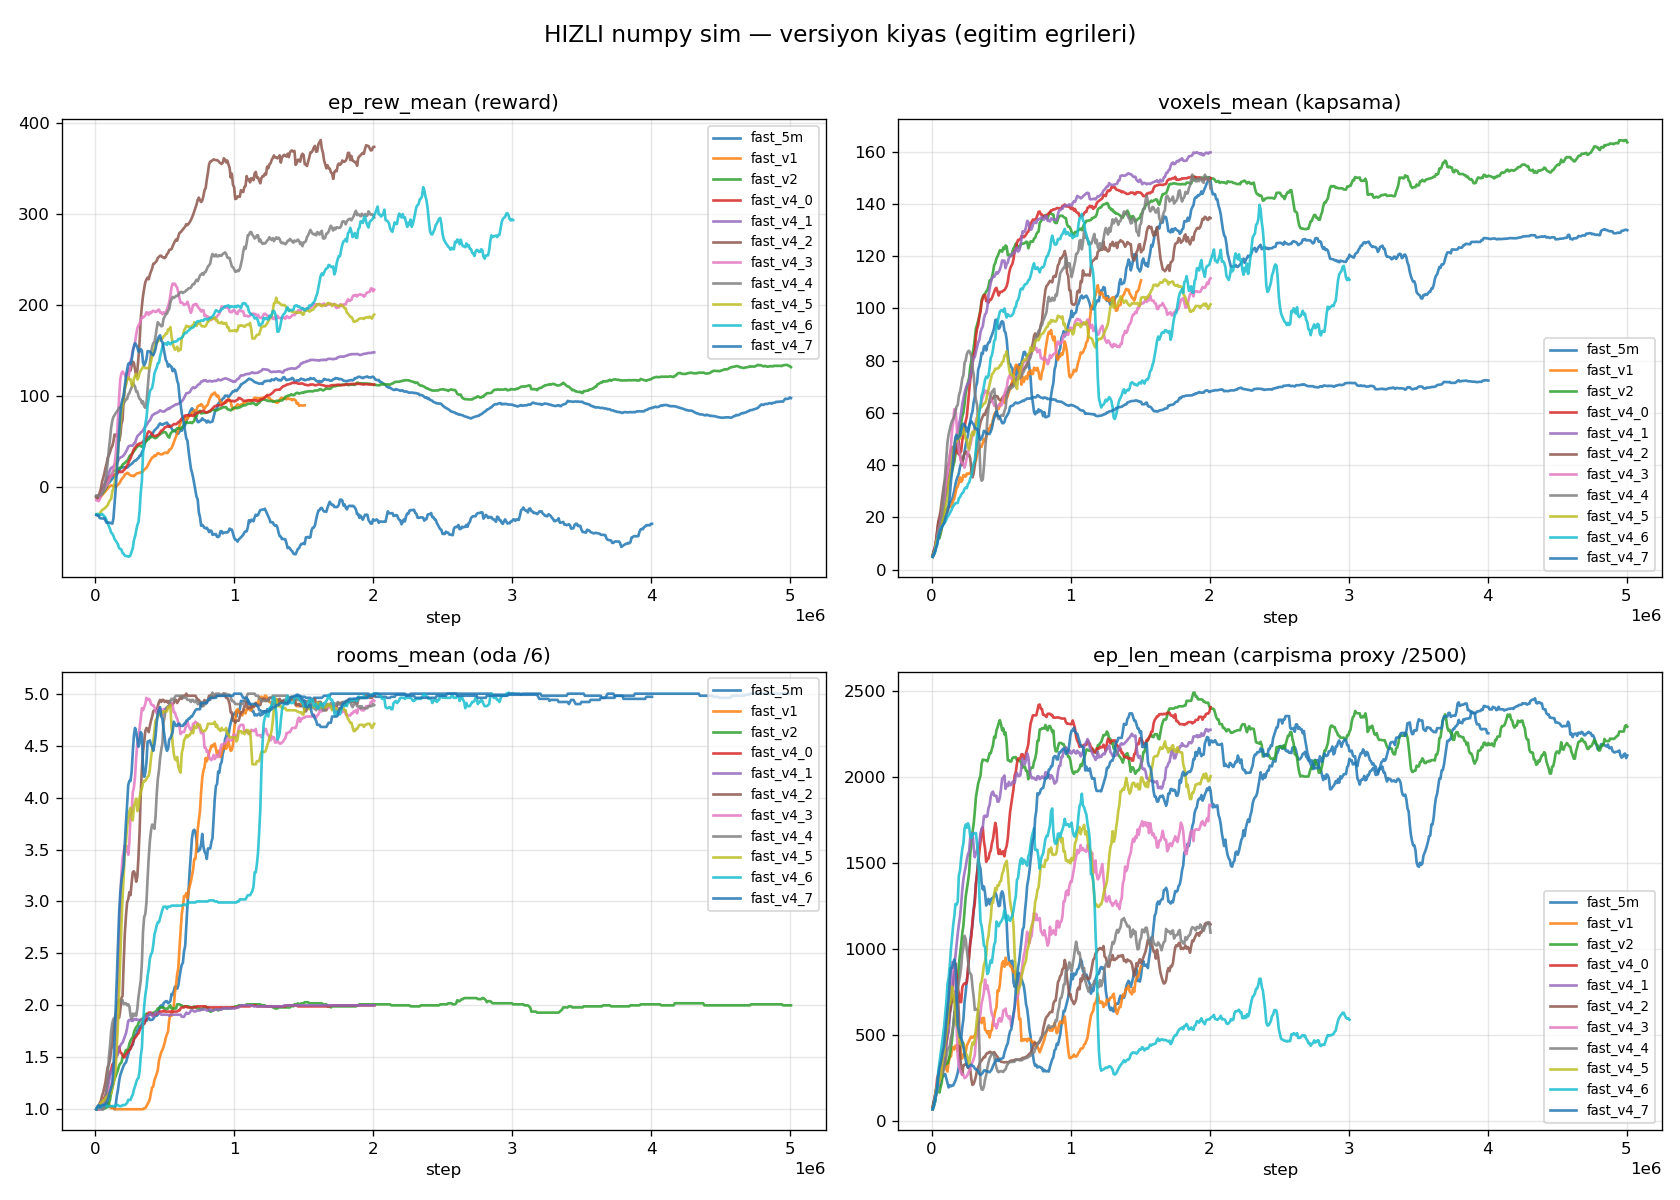
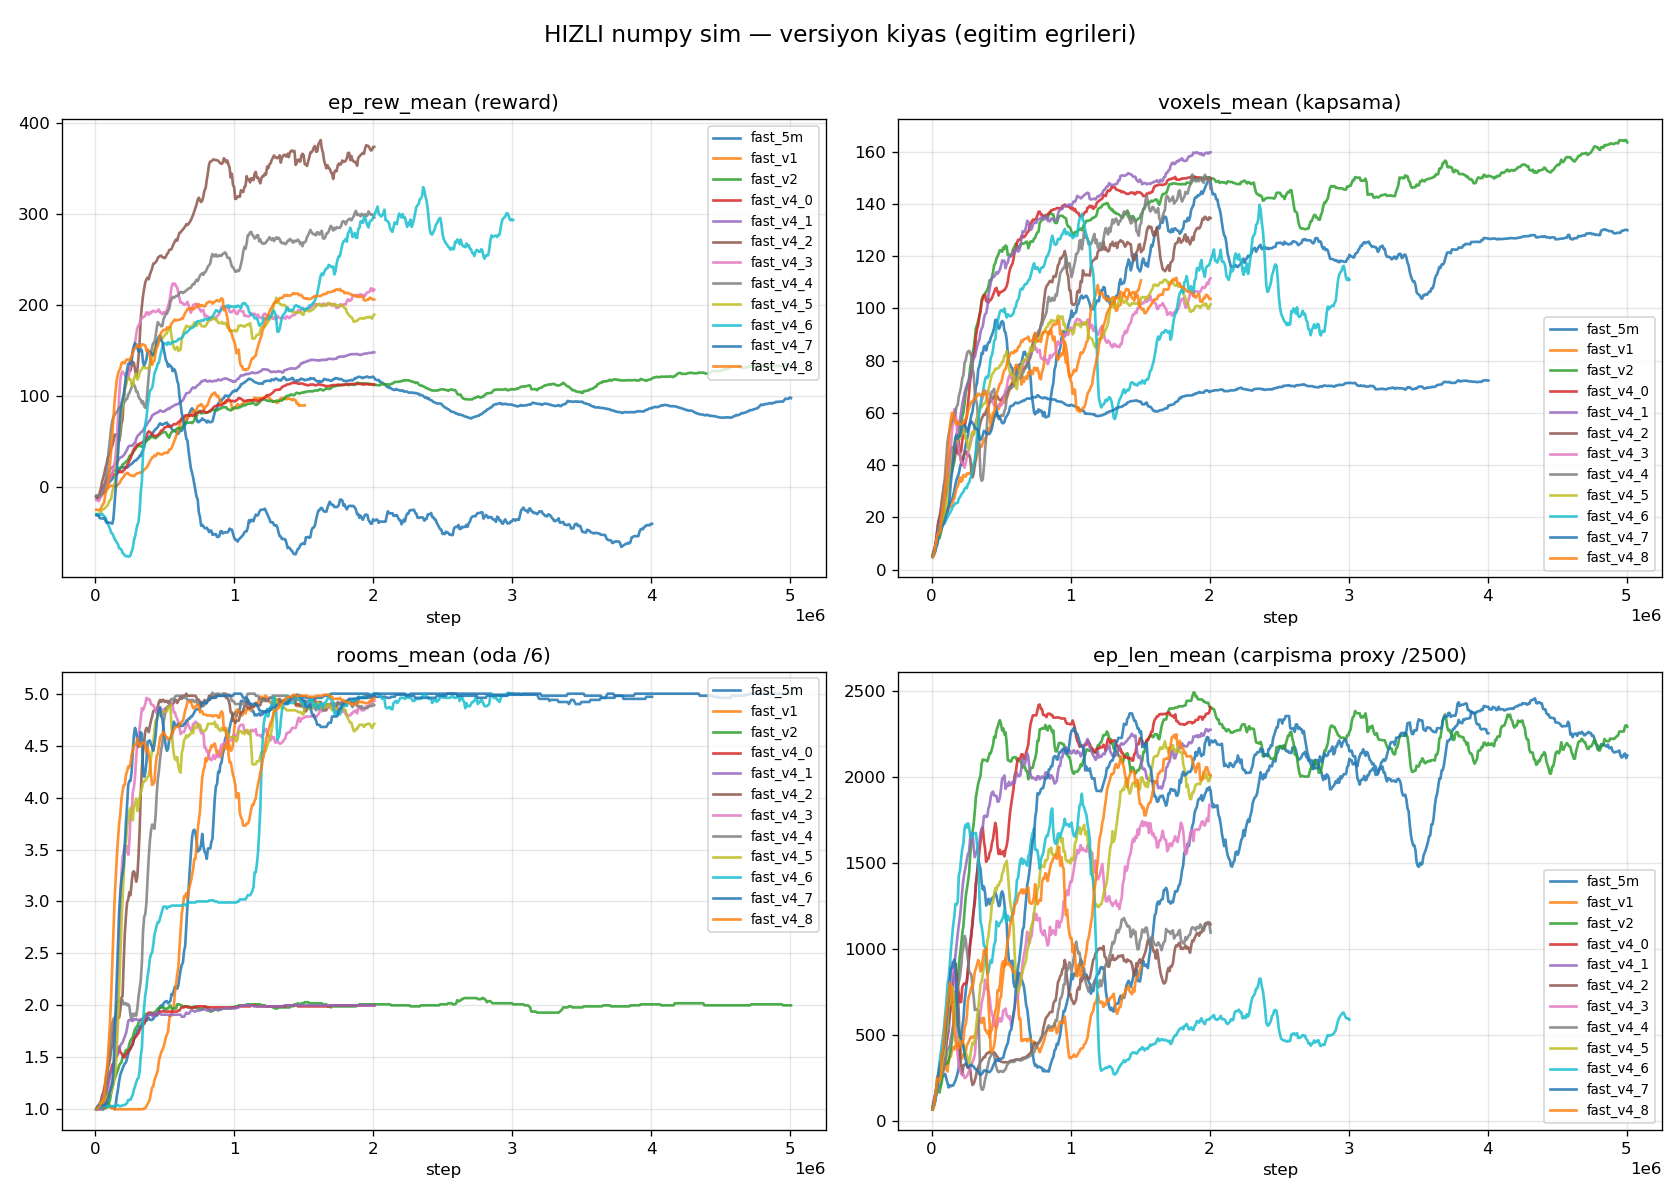
v4.8 eval (YENI SAMPIYON: %0 carpisma, 5 oda, 117 voxel, %100 hayatta) -> v4.9 (collision 22 frontier)

diff --git a/docs/FAST_V4_COMPARISON.md b/docs/FAST_V4_COMPARISON.md
@@ -13,9 +13,10 @@ Hedef: **çarpışmadan MAKSİMUM voxel tara.**
 | v4.2 | breadth push (far 2.5, ent 0.02) | %85 | 143 | — | 4.98 | — | %66 |
 | v4.3 | "denge" (far 1.5, coll 14, ent 0.01) | %100 ❌ | 37 | 51 | 3.88 | %5.9 | %7 (kötü yakınsama) |
 | v4.4 | güvenli taban + far 1.0 | %97 | 167 | 216 | 4.94 | %26.7 | %52 |
-| **v4.5** | **far 1.0 + collision 30** | **%8** ✅ | 114 | 132 | **5.0** | %15.6 | **%95** |
+| v4.5 | far 1.0 + collision 30 | %8 | 114 | 132 | 5.0 | %15.6 | %95 |
 | v4.6 | far 1.5 + collision 30 + 3M | %93 | **176** | **247** | 5.0 | **%30.9** | %54 |
 | v4.7 | v4.5 + idle↑ (0.08/grace20) + 4M | %72 ❌ | 72 | 79 | 5.0 | %9.4 | %85 (idle backfire) |
+| **v4.8** | **far 1.0 + collision 25** | **%0** ✅✅ | 117 | 123 | **5.0** | %13.8 | **%100** |
 
 ## Ana Bulgular (rapor için)
 
@@ -34,14 +35,18 @@ Hedef: **çarpışmadan MAKSİMUM voxel tara.**
 
 6. **Yumuşak idle cezası güvenlik için kritik.** v4.7'de idle_penalty 0.06→0.08 + grace 30→20 ile ajanı sürekli harekete zorlamak GERİ TEPTİ: engel yanında yavaşlayıp/duramadığından çarpışma %8→%72, voxel 114→71. v4.5'in düşük idle'ı ajanın güvenli durup-bekleme manevrasına izin veriyor.
 
-## EN İYİ POLİTİKA → **v4.5**
+## EN İYİ POLİTİKA → **v4.8** (SIFIR çarpışma)
 
-"Çarpışmadan maksimum voxel" hedefine en uygun **deploy edilebilir** politika:
-- **Çarpışma %8** (görevi tamamlıyor, %95 hayatta kalıyor)
+"Çarpışmadan maksimum voxel" hedefinin **kesin** cevabı:
+- **Çarpışma %0** — 100 bölümün hepsinde HİÇ çarpmadı, tam 2500 adım hayatta kaldı
 - **Her bölümde 5 odanın hepsine ulaşıyor** (rooms 5.0)
-- 114 voxel ortalama (temkinli ama güvenli tarama)
+- **117 voxel** ortalama (v4.5'ten biraz fazla), çok tutarlı (max 123)
 
-v4.4/v4.6 ham keşifte daha yüksek (167–176 voxel) ama %93–97 çarpışma → gerçek görevde drone düşer, "çarpışmadan" kısıtını ihlal eder.
+> Sezgiye aykırı bulgu: collision_penalty 30→25 ile çarpışma %8→%0'a DÜŞTÜ. Çok yüksek ceza (30)
+> ajanı aşırı-tedirgin yapıp ara sıra hatalı manevraya itiyordu; 25 daha temiz, tam güvenli bir
+> politikaya yakınsadı. Ceza ölçeği "ne kadar yüksek o kadar güvenli" DEĞİL — bir tatlı nokta var.
+
+v4.4/v4.6 ham keşifte daha yüksek (167–176 voxel) ama %93–97 çarpışma → gerçek görevde drone düşer, "çarpışmadan" kısıtını ihlal eder. v4.8 hem güvenli hem tam kapsamlı (5 oda).
 
 > Gazebo (yavaş, gerçekçi fizik) vs numpy/Gymnasium (hızlı, ~100x): aynı ortam, iki ayaklı kanıt.
 > Gazebo'da ~157 voxel/2 oda referansı; hızlı sim'de v4.5 ile %8 çarpışma + 5 oda güvenli kapsama.

diff --git a/docs/EVAL_fast_v4_8.md b/docs/EVAL_fast_v4_8.md
@@ -1,0 +1,16 @@
+# fast_v4_8 (numpy/Gymnasium sim) — 100 episode
+
+Model: `fast_drone_final.zip` | deterministic | hareketli engeller aktif | ~100x hizli sim
+
+| Metrik | Deger |
+|---|---|
+| Return | 77.7 ± 7.6 (min 50, max 96) |
+| Voxel / 1024 | 117.6 ± 2.5 (min 111, max 123) |
+| Oda / 6 | 5.0 ± 0.0 (min 5, max 5) |
+| Episode / 2500 | 2500.0 ± 0.0 (min 2500, max 2500) |
+| Carpisma orani | 0% (0/100) |
+| Birlesik kapsama | 141/1024 (14%) |
+
+![coverage](figures/eval_fast_v4_8_coverage.png)
+
+![traj](figures/eval_fast_v4_8_trajectories.png)
